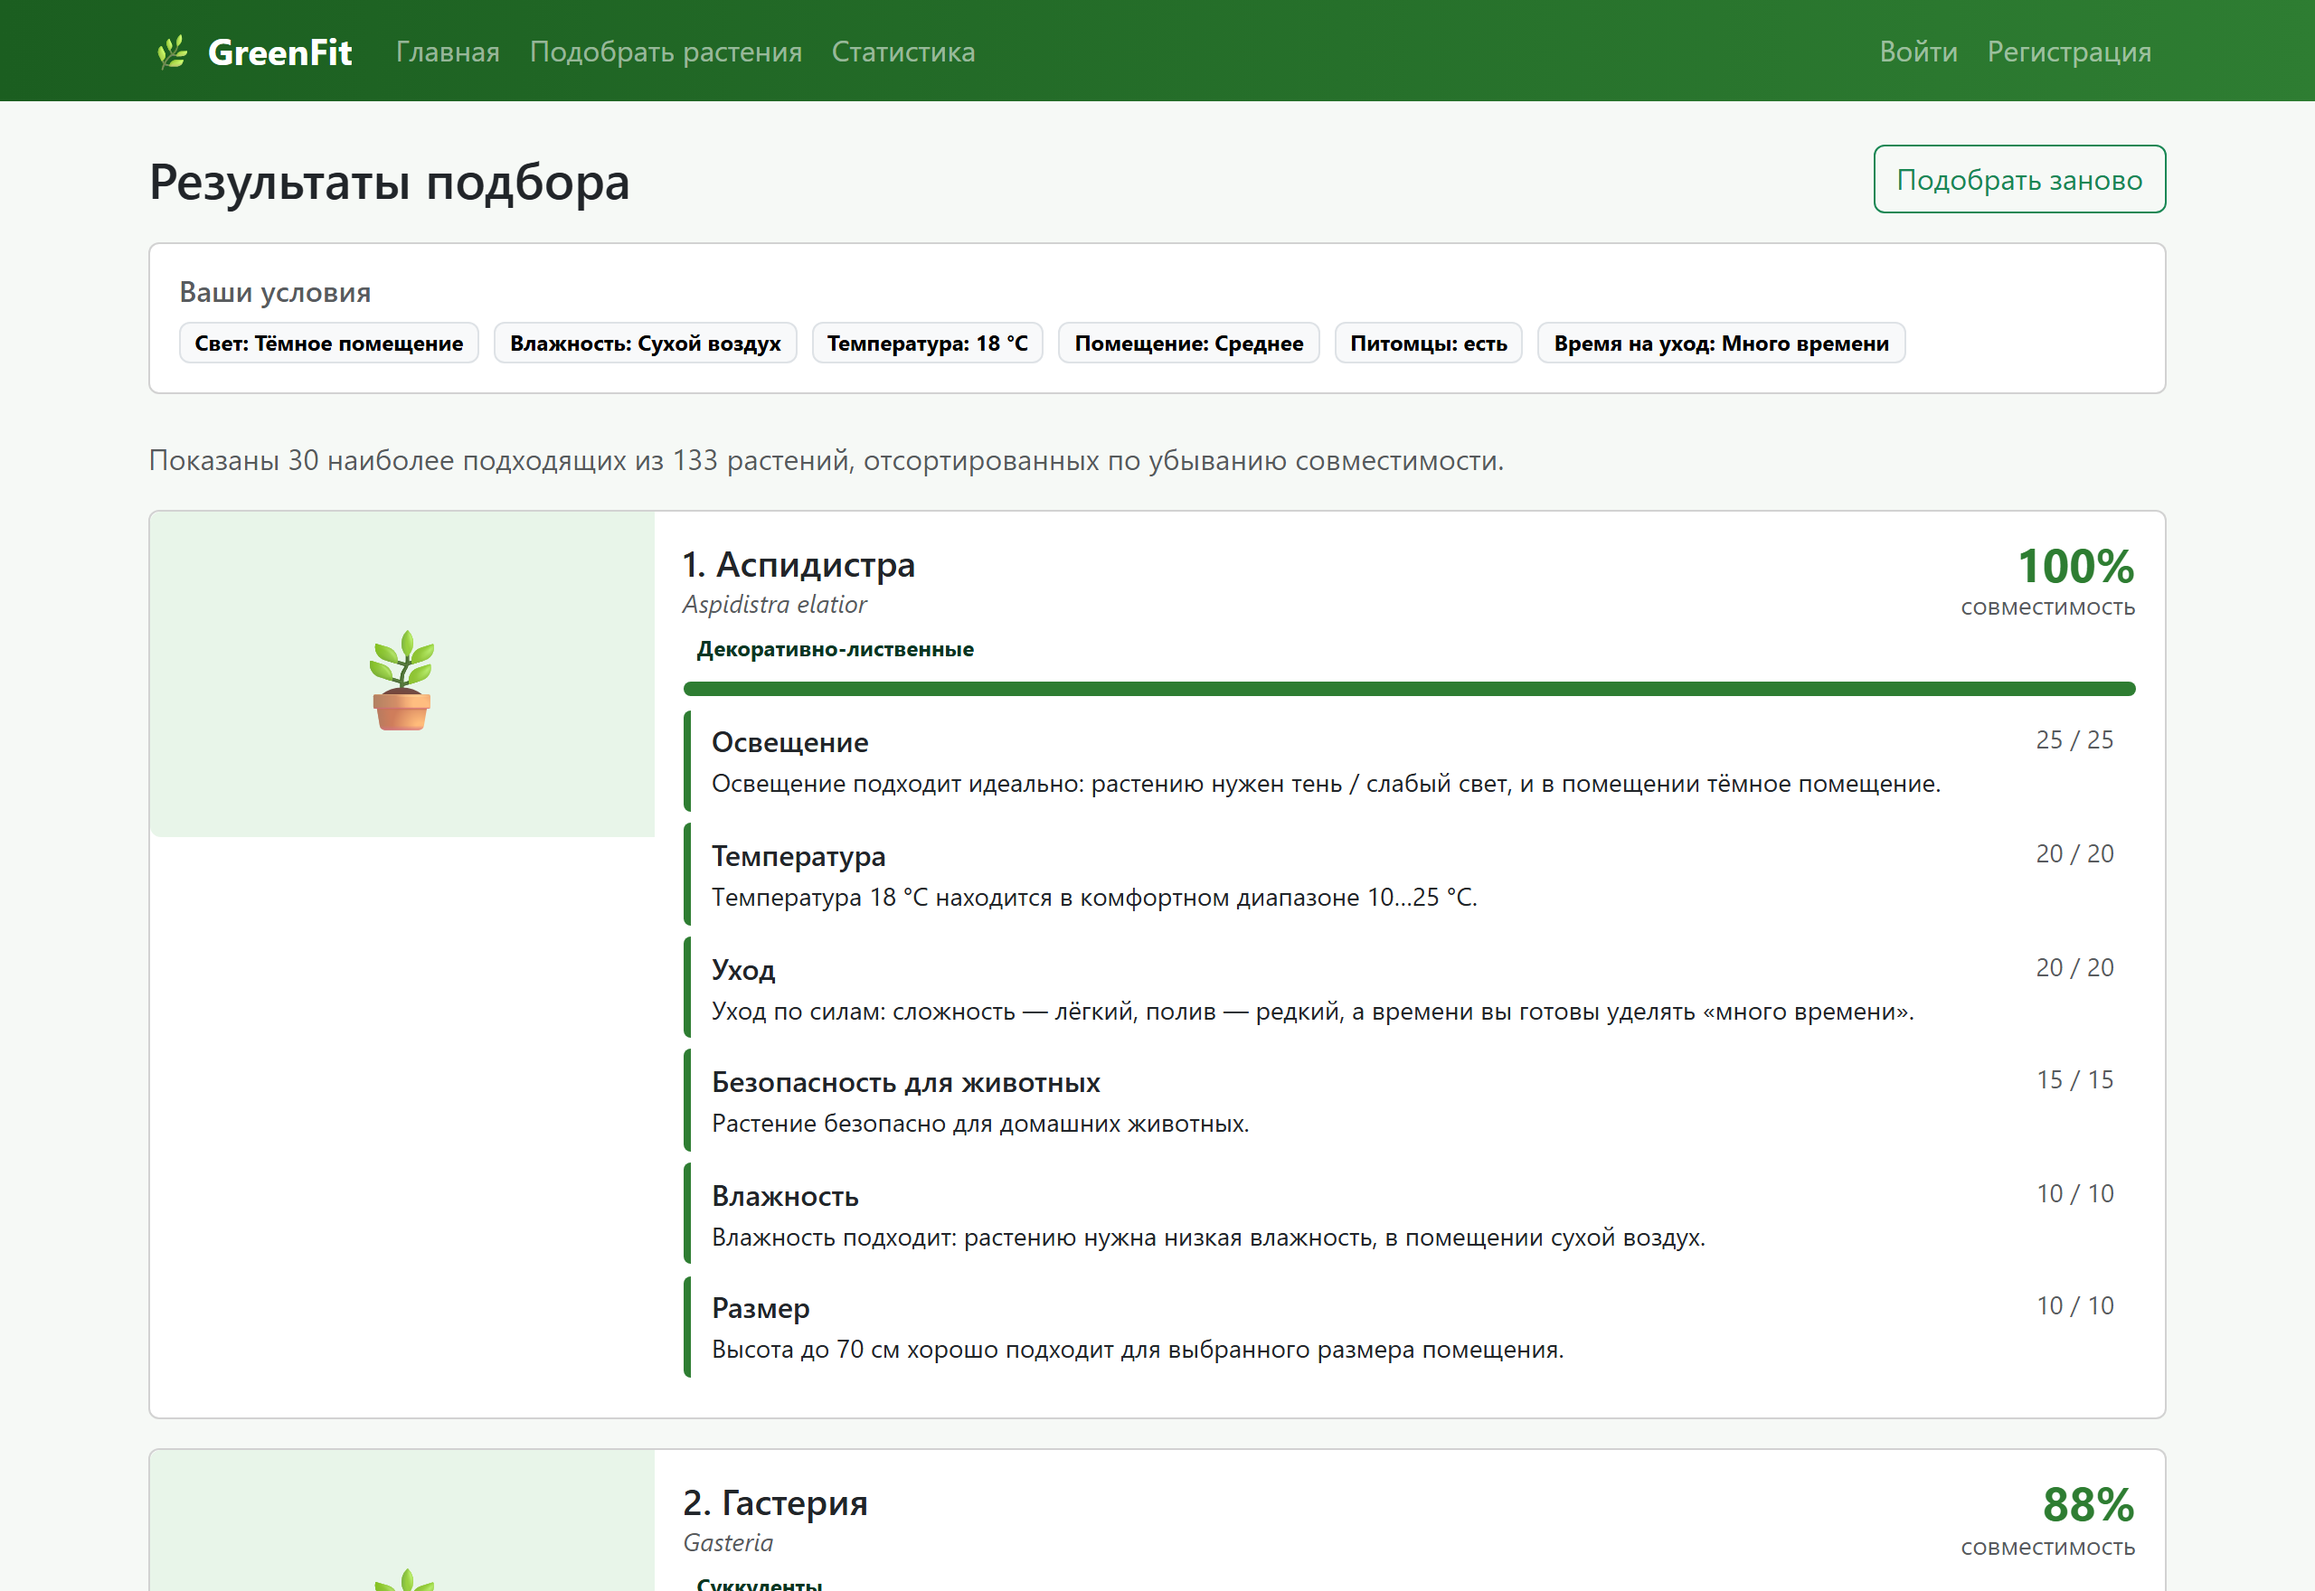
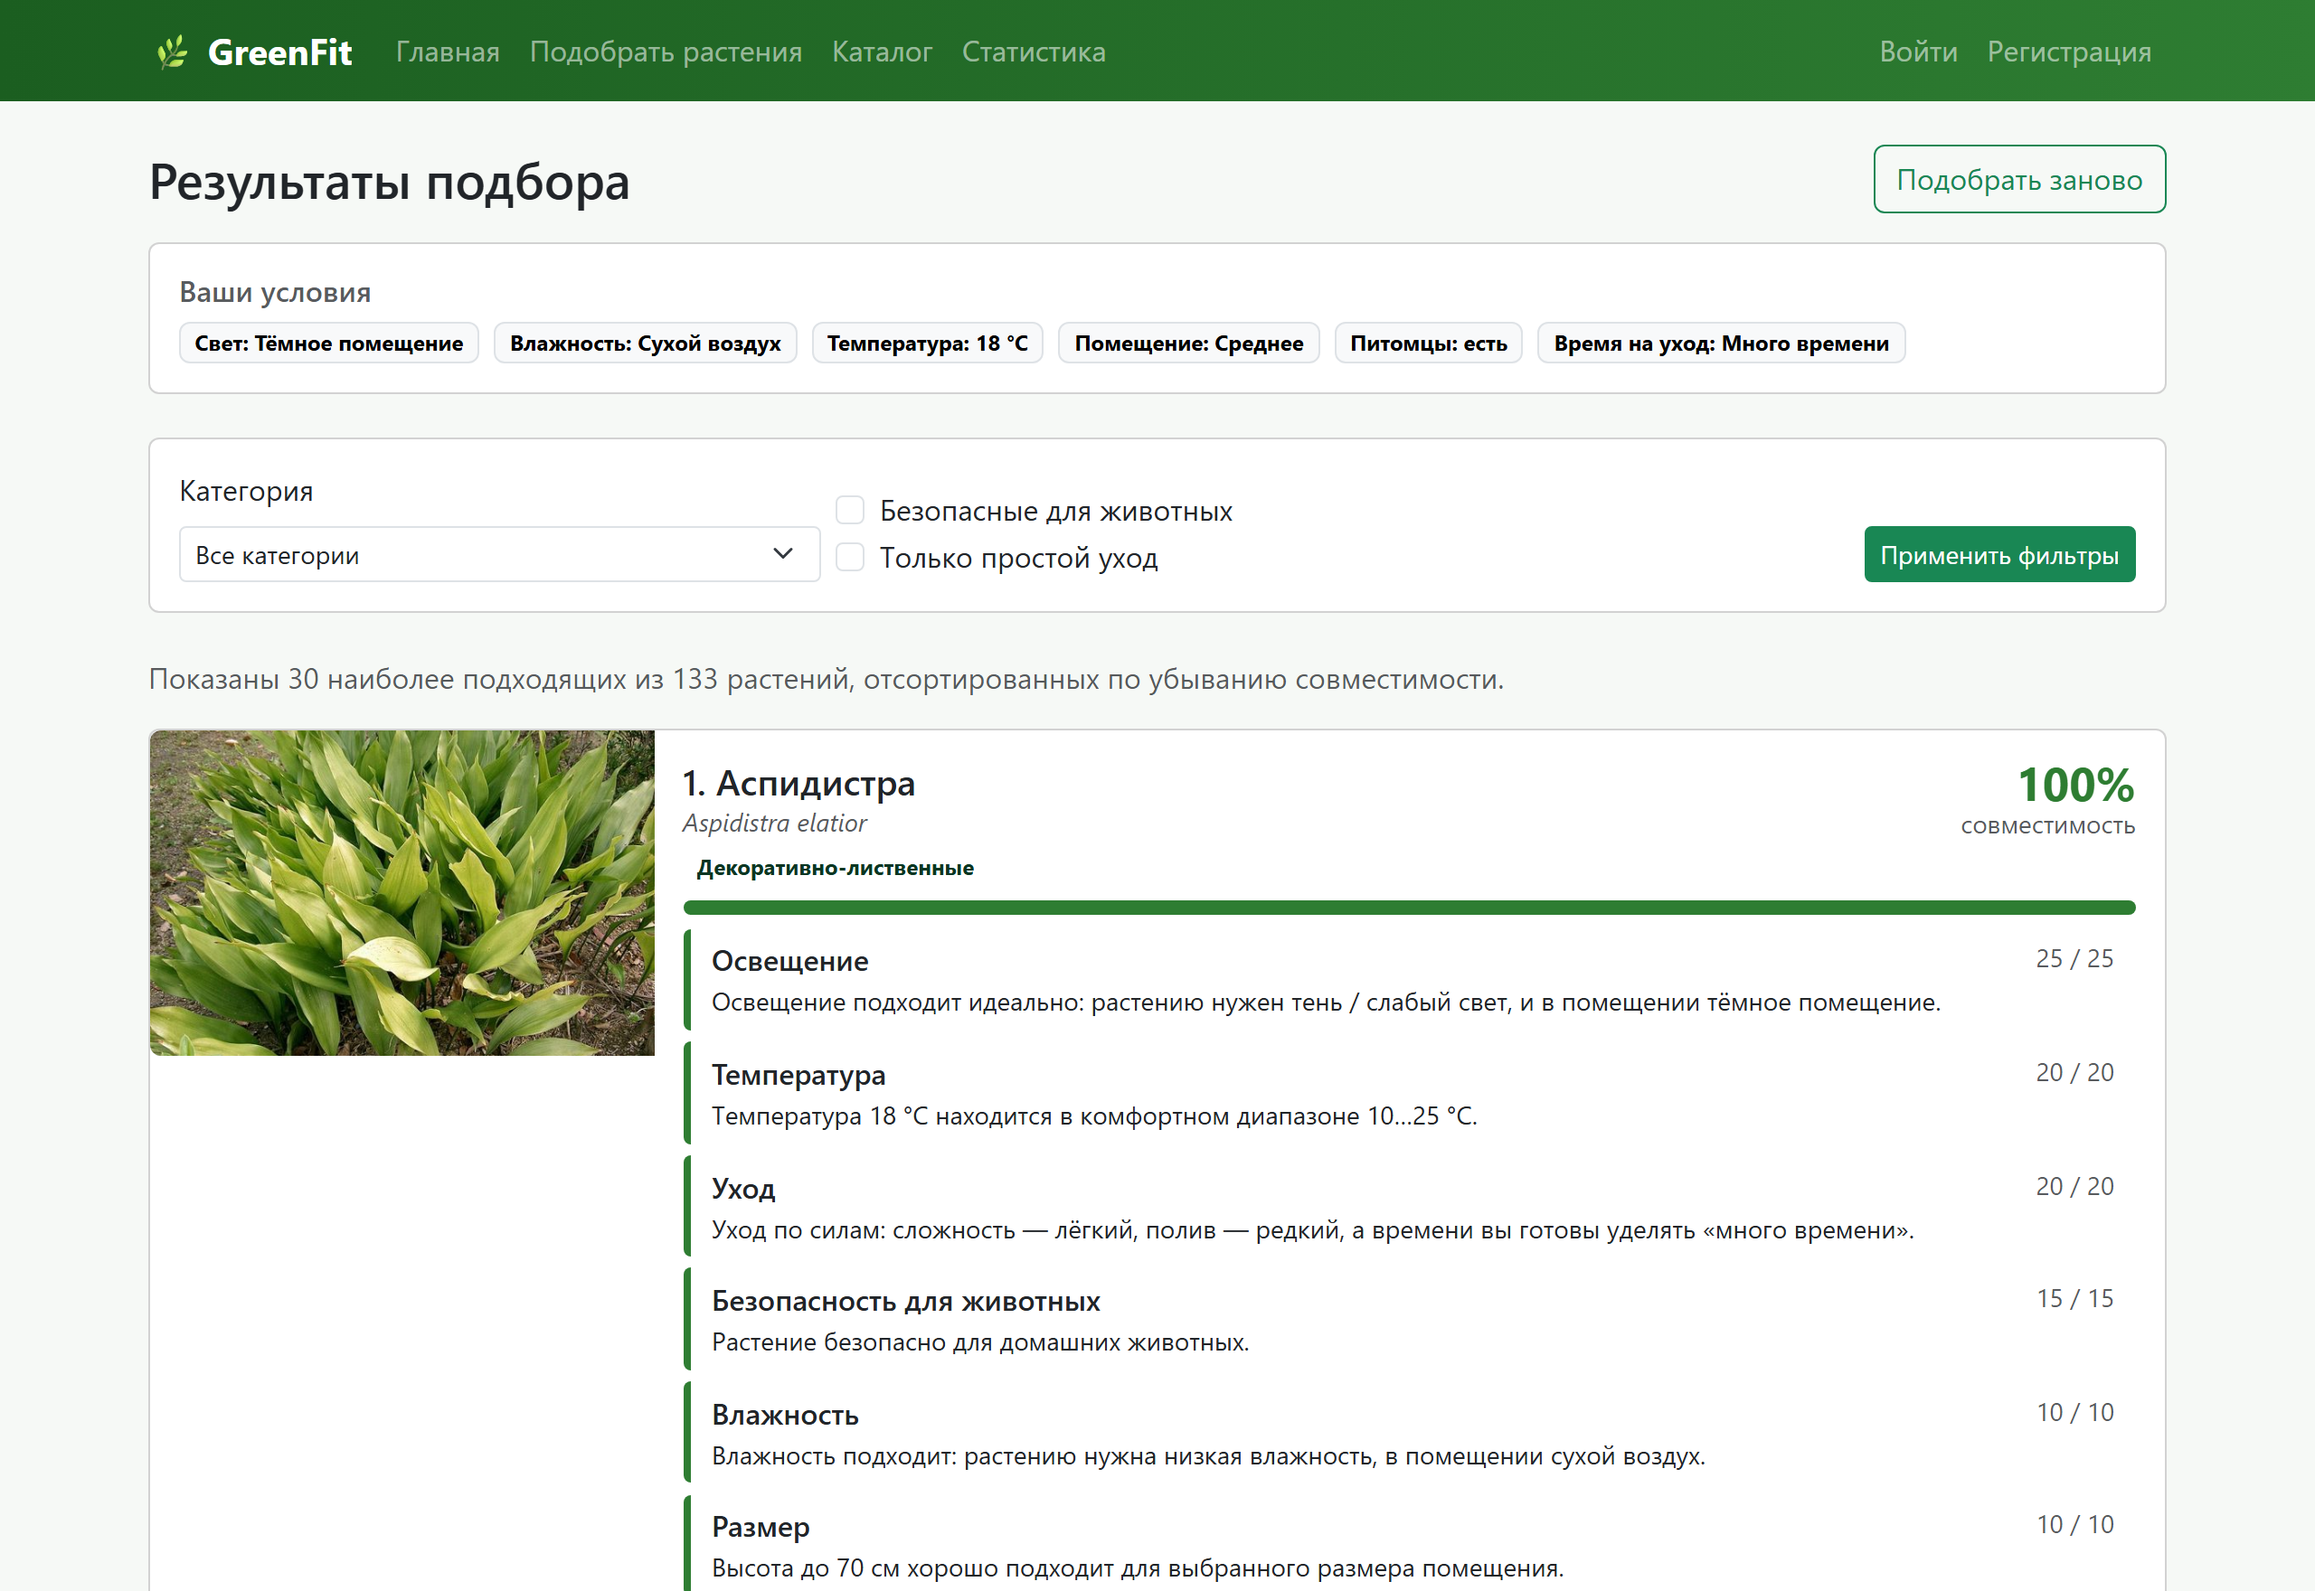
Document catalogue, photos and CI in the README
Add CI badge, new features (133-plant catalogue with photos, result filters), updated screenshot grid with the catalogue and plant detail pages, photo attribution, and a DEPLOY.md reference.

diff --git a/README.md b/README.md
@@ -1,5 +1,7 @@
 # 🌿 GreenFit
 
+[![CI](https://github.com/zawisla/GreenFit/actions/workflows/ci.yml/badge.svg)](https://github.com/zawisla/GreenFit/actions/workflows/ci.yml)
+
 **Подбор комнатных растений по микроклимату вашей квартиры.**
 
 GreenFit анализирует шесть параметров помещения (освещённость, влажность, температуру,
@@ -17,11 +19,15 @@ GreenFit анализирует шесть параметров помещени
 
 - 📝 Форма из 6 параметров помещения с серверной валидацией
 - ⚖ Расчёт совместимости 0–100 % по шести взвешенным критериям с пояснениями
+- 🗂 Каталог из **133 растений** (14 категорий) с поиском, фильтрами и страницей каждого растения
+- 🖼 Фотография для каждого растения
+- 🎛 Фильтры результатов: безопасные для животных, простой уход, по категории
 - 🌤 Автоподстановка температуры и влажности по городу через **Open-Meteo API** (AJAX)
 - 📊 Страница статистики: средний балл, топ-5 растений, распределение по сложности
   ухода (**Pandas** + интерактивные графики **Chart.js**)
 - 👤 Регистрация и личная история подборов
 - 🛠 Управление каталогом через админ-панель Django (поиск, фильтры)
+- ✅ **32 автоматических теста** и непрерывная интеграция (GitHub Actions)
 
 ## Технологии
 
@@ -34,11 +40,16 @@ GreenFit анализирует шесть параметров помещени
 
 ## Скриншоты
 
-| Главная | Форма подбора с погодой |
+| Главная | Каталог с поиском и фильтрами |
 |---|---|
-| ![Главная](docs/screenshots/home.png) | ![Форма подбора](docs/screenshots/select.png) |
-| **Результаты с пояснениями** | **Статистика (Pandas + Chart.js)** |
-| ![Результаты](docs/screenshots/result.png) | ![Статистика](docs/screenshots/statistics.png) |
+| ![Главная](docs/screenshots/home.png) | ![Каталог](docs/screenshots/catalog.png) |
+| **Результаты с фото и пояснениями** | **Карточка растения** |
+| ![Результаты](docs/screenshots/result.png) | ![Карточка растения](docs/screenshots/plant_detail.png) |
+| **Подбор с погодой** | **Статистика (Pandas + Chart.js)** |
+| ![Форма подбора](docs/screenshots/select.png) | ![Статистика](docs/screenshots/statistics.png) |
+
+> Фотографии растений взяты из **Wikimedia Commons / Wikipedia** и используются в
+> учебных целях.
 
 ## Запуск проекта локально
 
@@ -72,7 +83,7 @@ GreenFit анализирует шесть параметров помещени
 5. **Примените миграции и наполните каталог:**
    ```bash
    python manage.py migrate
-   python manage.py seed_plants
+   python manage.py seed_plants   # 14 категорий, 133 растения с фотографиями
    ```
 
 6. **Создайте администратора (для доступа в админ-панель):**
@@ -98,25 +109,28 @@ python manage.py test
 ```
 GreenFit/
 ├── greenfit/          # настройки проекта и корневой URLconf
-├── catalog/           # каталог: модели PlantCategory и Plant, админка,
-│   └── management/    # команда seed_plants (демо-данные)
+├── catalog/           # каталог: модели, админка, представления и шаблоны
+│   ├── plant_data.py  #   133 растения в 14 категориях
+│   ├── seed_images/   #   фотографии растений
+│   └── management/    #   команда seed_plants
 ├── selector/          # подбор: RoomCondition, MatchResult, формы, представления,
 │                      #   matching.py (алгоритм), weather.py (API), analytics.py (Pandas)
 ├── accounts/          # регистрация, вход, выход
 ├── templates/         # базовый шаблон и общие partials
 ├── static/            # CSS
+├── .github/workflows/ # непрерывная интеграция (GitHub Actions)
 ├── requirements.txt
 ├── .env.example
 ├── TZ.md              # техническое задание
+├── DEPLOY.md          # инструкция по развёртыванию
 └── README.md
 ```
 
 ## Развёртывание
 
 Проект готов к публикации на **PythonAnywhere**: статика отдаётся через WhiteNoise,
-все секреты вынесены в переменные окружения, поддерживается PostgreSQL через
-`DATABASE_URL`. Перед публикацией задайте `DJANGO_DEBUG=False`, `DJANGO_SECRET_KEY`,
-`DJANGO_ALLOWED_HOSTS` и выполните `python manage.py collectstatic`.
+все секреты вынесены в переменные окружения, поддерживаются PostgreSQL и MySQL через
+`DATABASE_URL`. Подробная пошаговая инструкция — в файле **[DEPLOY.md](DEPLOY.md)**.
 
 ## Лицензия
 
